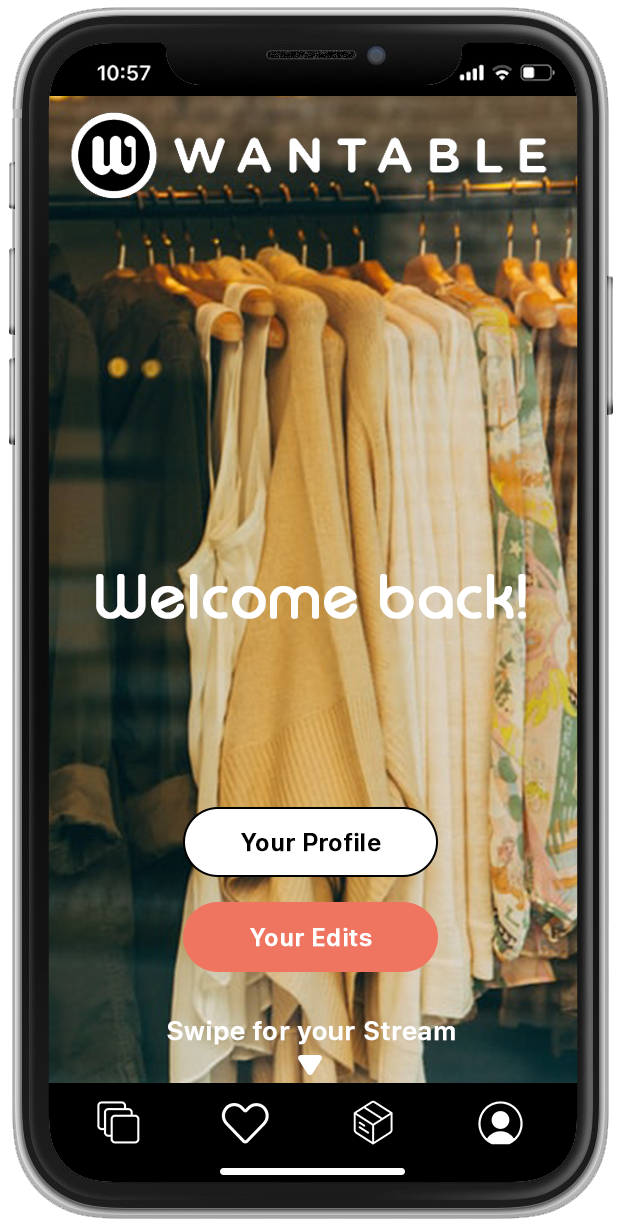
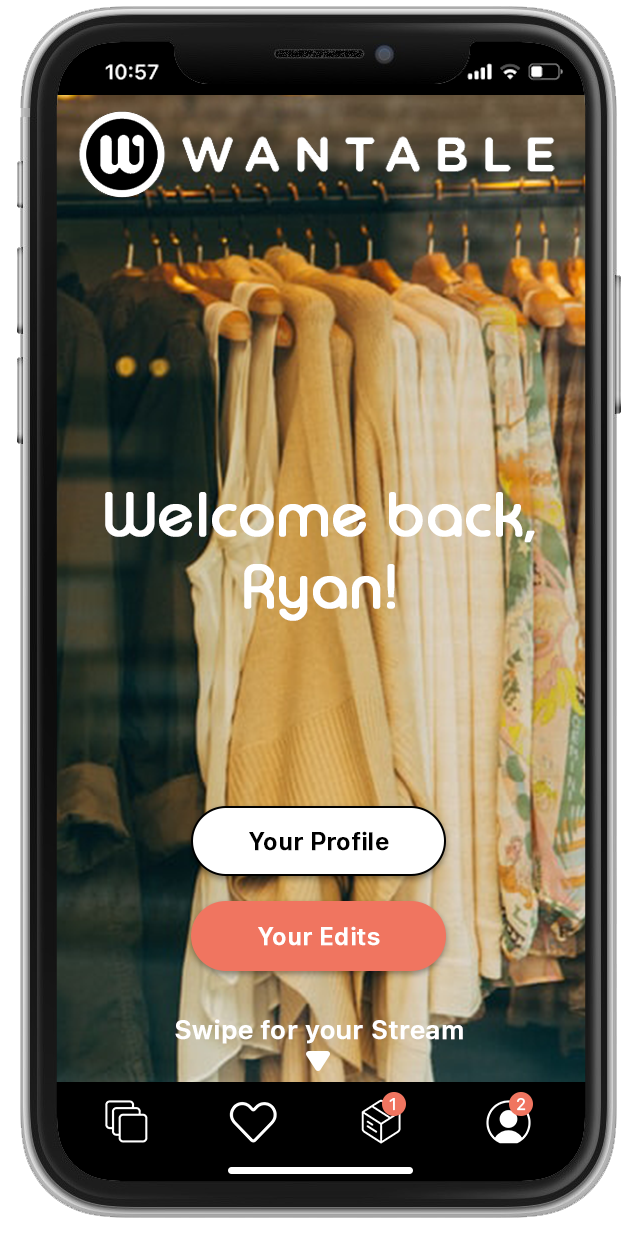
Added more redesign concepts

diff --git a/HTML/Wantable Redesign.html b/HTML/Wantable Redesign.html
@@ -32,7 +32,8 @@
 <body>
 <div id="container"> <img id="wantable" src="../Images/wantableLogo.png">
   <h1 align="center">Wantable App Redesign</h1>
-  <p id="para">Wantable is a clothing subscription company based out of Milwaukee, Wisconsin. Their software stack primarily consists of Ruby on Rails, which doesn’t translate well in an app-based environment. The goal of this concept is to redesign the current app natively in Swift, make it more user friendly, and inject observable and fundamental changes to the overall user flow.<br><br>Some improvements include a dedicate profile section, a proper dock menu, and refined design guidelines (Such as button emphasis). </p>
+  <p id="para">Wantable is a clothing subscription company based out of Milwaukee, Wisconsin. Their software stack primarily consists of Ruby on Rails, which doesn’t translate well in an app-based environment. The goal of this concept is to redesign the current app natively in Swift, make it more user friendly, and inject observable and fundamental changes to the overall user flow.<br><br>
+   Some improvements include a dedicated profile section, a proper dock menu, and refined design guidelines (Such as button emphasis).</p>
   <div class="container2">
     <div class="imageContainer" align="center"><img class="iphoneImage" src="../Images/wantable1.png"></div>
     <div class="paraContainer">
@@ -64,14 +65,54 @@
   <div class="container2">
     <div class="paraContainer" id="hiddenpara2">
       <h2>Dedicated User Preference Section</h2>
-      <p class="para3">Now, instead of the slideout menu, the user has a proper way of accessing their data or changing settings.</p>
+      <p class="para3">Now, instead of the slideout menu, the user has a proper way of accessing their data or changing settings. Take note of the messages notification, something the current app lacks.</p>
     </div>
     <div class="imageContainer" align="center"><img class="iphoneImage" src="../Images/wantable4.png"></div>
 	  <div class="paraContainer" id="hiddenpara4">
       <h2>Dedicated User Preference Section</h2>
-      <p class="para3">Now, instead of the slideout menu, the user has a proper way of accessing their data or changing settings.</p>
+      <p class="para3">Now, instead of the slideout menu, the user has a proper way of accessing their data or changing settings. Take note of the messages notification, something the current app lacks.</p>
     </div>
   </div>
+	<div class="container2">
+    <div class="imageContainer" align="center"><img class="iphoneImage" src="../Images/wantable5.png"></div>
+    <div class="paraContainer">
+      <h2>Revamped Wishlist</h2>
+      <p class="para2">Cleaned up, more visually informative, and allows users two different display options. Also shows the companies ever-updating stock count for transparency.
+</p>
+    </div>
+  </div>
+  <div class="container2">
+    <div class="paraContainer" id="hiddenpara5">
+      <h2>Edit Quizzes: With a Fresh Coat of Paint</h2>
+      <p class="para3">Wantable's quizzes allow them to gather data about your sizes and preferences. This is page 1 after you select what kind of Edit you want to order. The current variable selection is really not great, so this version aims to make the experience of giving your persoanl details away much more enjoyable.
+</p>
+    </div>
+    <div class="imageContainer" align="center"><img class="iphoneImage" src="../Images/wantable6.png"></div>
+    <div class="paraContainer" id="hiddenpara7">
+      <h2>Edit Quizzes: With a Fresh Coat of Paint</h2>
+      <p class="para3">Wantable's quizzes allow them to gather data about your sizes and preferences. This is page 1 after you select what kind of Edit you want to order. The current variable selection is really not great, so this version aims to make the experience of giving your persoanl details away much more enjoyable.
+</p>
+    </div>
+  </div>
+  <div class="container2">
+    <div class="imageContainer" align="center"><img class="iphoneImage" src="../Images/wantable7.png"></div>
+    <div class="paraContainer">
+      <h2>Edit Tracking/Updating</h2>
+      <p class="para2">On the current app, tracking the status of your edits is visually confusing. This method not only color codes the status of each stage in the process, but also gives clear direction the user can take on each order. From here, the user can make on the fly decisions to edit their quizzes, cancel an order, or view reciepts. Nitification badges are also used here to show urgency for items that require attention. </p>
+    </div>
+  </div>
+  <div class="container2">
+    <div class="paraContainer" id="hiddenpara6">
+      <h2>True Messaging and Notification Services</h2>
+      <p class="para3">I wanted to make it simple for users to not only get in contact with their stylists, but also get updates on current orders. I created a threaded view, similar to iMessage, making it easier to reference previous conversations. Take note of the message notifications referenced earlier. These would be PUSHED to the users device, something the current app also lacks.</p>
+    </div>
+    <div class="imageContainer" align="center"><img class="iphoneImage" src="../Images/wantable8.png"></div>
+    <div class="paraContainer" id="hiddenpara8">
+      <h2>True Messaging and Notification Services</h2>
+      <p class="para3">I wanted to make it simple for users to not only get in contact with their stylists, but also get updates on current orders. I created a threaded view, similar to iMessage, making it easier to reference previous conversations. Take note of the message notifications referenced earlier. These would be PUSHED to the users device, something the current app also lacks.</p>
+    </div>
+  </div>
+  <img id="colab" src="../Images/WRC.png">
 </div>
 <div id="footer">
   <div id="social" align="center"> <a href="https://www.youtube.com/user/SynGatesFan200/featured"><img src="../Images/youtube.png" class="socialfooter" width="60" height="60" alt=""/> </a> <a href="https://www.linkedin.com/in/ryan-coen/"><img src="../Images/linkedin.png" class="socialfooter" width="60" height="60" alt=""/> </a> <a href="https://github.com/ryancoen"><img src="../Images/github.png" class="socialfooter" width="60" height="60" alt=""/> </a> </div>

diff --git a/CSS/wantable.css b/CSS/wantable.css
@@ -64,6 +64,13 @@ h1, h3{
 	
 }
 
+#colab{
+	margin-left: auto;
+	margin-right: auto;
+	display: block;
+	width: 400px;
+}
+
 
 @media (max-width: 900px){
 	.container2{
@@ -77,13 +84,13 @@ h1, h3{
 			margin-left: auto;
 	margin-right: auto;
 	}
-	#hiddenpara, #hiddenpara2{
+	#hiddenpara, #hiddenpara2, #hiddenpara5, #hiddenpara6{
 		display: none;
 	}
 }
 
 @media (min-width: 900px){
-	#hiddenpara3, #hiddenpara4{
+	#hiddenpara3, #hiddenpara4, #hiddenpara7, #hiddenpara8{
 		display: none;
 	}
 }

diff --git a/HTML/Intel.html b/HTML/Intel.html
@@ -2,7 +2,7 @@
 <html>
 <head>
 <meta charset="UTF-8">
-<title>Untitled Document</title>
+<title>Intel NUC DC3217BY Hackintosh | ryancoen.dev</title>
 <link rel="stylesheet" type="text/css" href="../CSS/intel.css">
 <link rel="stylesheet" type="text/css" href="../CSS/unv.css">
 <link rel="stylesheet" href="https://use.typekit.net/ynh7syw.css">
